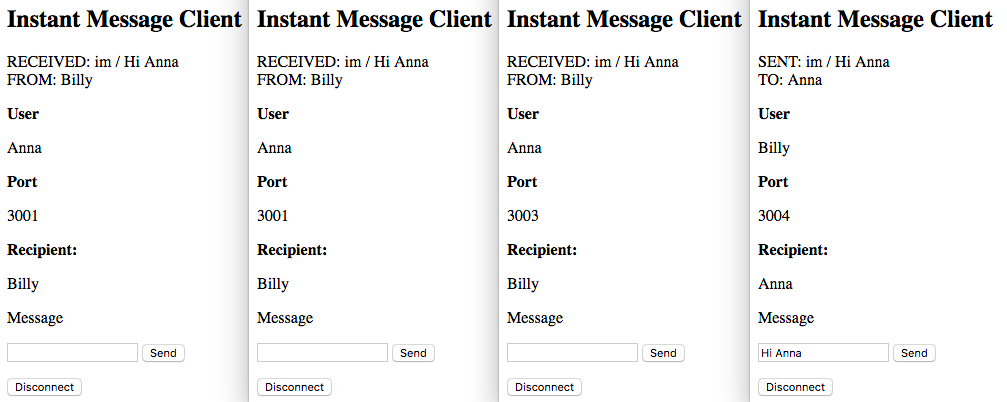
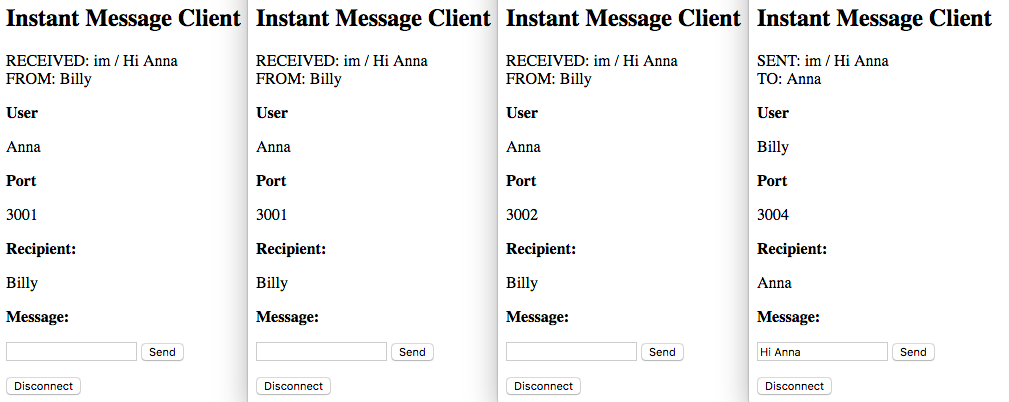
Updated README and modified client message display slightly

diff --git a/app/client/chat-client.html b/app/client/chat-client.html
@@ -154,7 +154,7 @@
             <p><b>User</b><div id="selectedUser"></div></p>
             <p><b>Port</b><div id="selectedPort"></div></p>
             <p><b>Recipient:</b><div id="selectedRecipient"></div></p>
-            <p><label for="userInput">Message</label>
+            <p><b><label for="userInput">Message:</label></b>
                 <div><input id="userInput"/>
                 <button id="btnSend" onclick="sendIm(userInput.value)">Send</button>
                 </div>

diff --git a/README.md b/README.md
@@ -153,7 +153,7 @@ Choose a user and port then click 'Connect'. The recipient of your messages will
 Launch another browser and log in as the other user, choosing either the same or a different port. Send messages
 back and forth. 
 
-A client-side message history is currently outside the scope of this demo (though it is on the TODO list.
+A client-side message history is currently outside the scope of this demo, but it is on the TODO list.
 
 ### User with multiple connections receives IM in all clients
 ![User with multiple connections receives IM](img/multi-client-user-receives.png "User with multiple connections receives IM")
